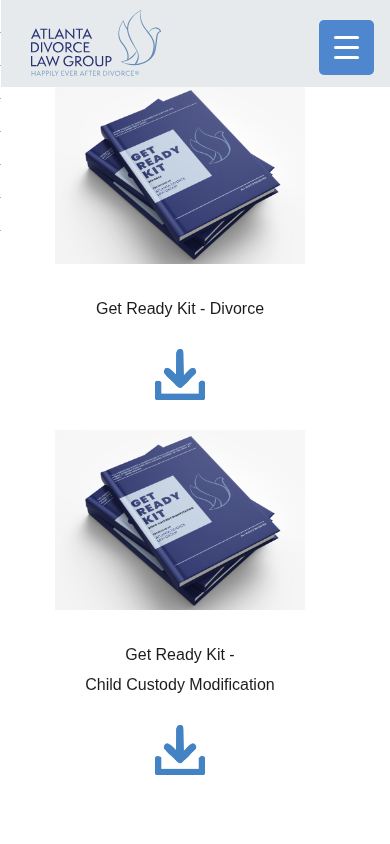
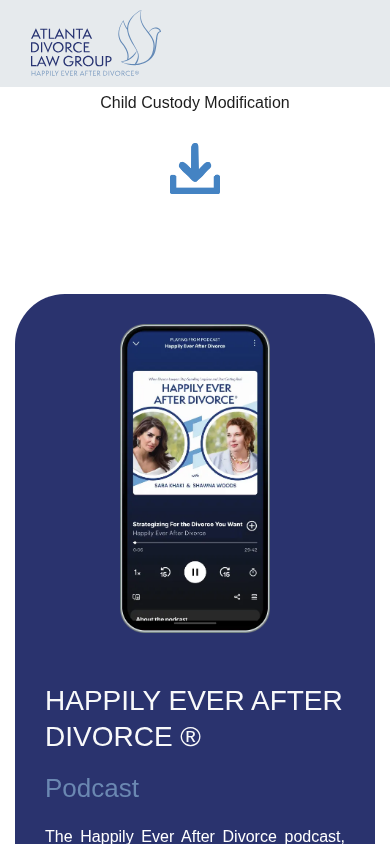
Rerun ADLG captures with raw viewport process

diff --git a/prospect-captures/atlanta-divorce-law-group/lead-analysis.md b/prospect-captures/atlanta-divorce-law-group/lead-analysis.md
@@ -21,10 +21,11 @@
 - **Tools used:** OpenClaw browser tool, rendered screenshots, web fetch, targeted Playwright evidence capture.
 - **Desktop review standard:** Representative desktop browser viewport at **1920x1080**.
 - **Mobile review standard:** iPhone-class mobile viewport at roughly **390x844** with a separate mobile pass and dedicated screenshots.
+- **Capture fidelity:** Raw/live capture with no style or layout overrides.
 - **Confidence:** **Moderate**
 - **Limits:**
   - I was able to inspect the real rendered site experience.
-  - The original local Playwright full-page capture script failed on this site, so I used a more controlled targeted capture flow for evidence screenshots.
+  - The screenshots were rerun using the updated raw-capture process with no CSS/style injection.
   - I could not enrich with external review/map data because `web_search` was exposed but not properly configured in the current environment.
   - Business-quality judgment is therefore weighted more toward **onsite signals** than offsite reputation evidence.
 
